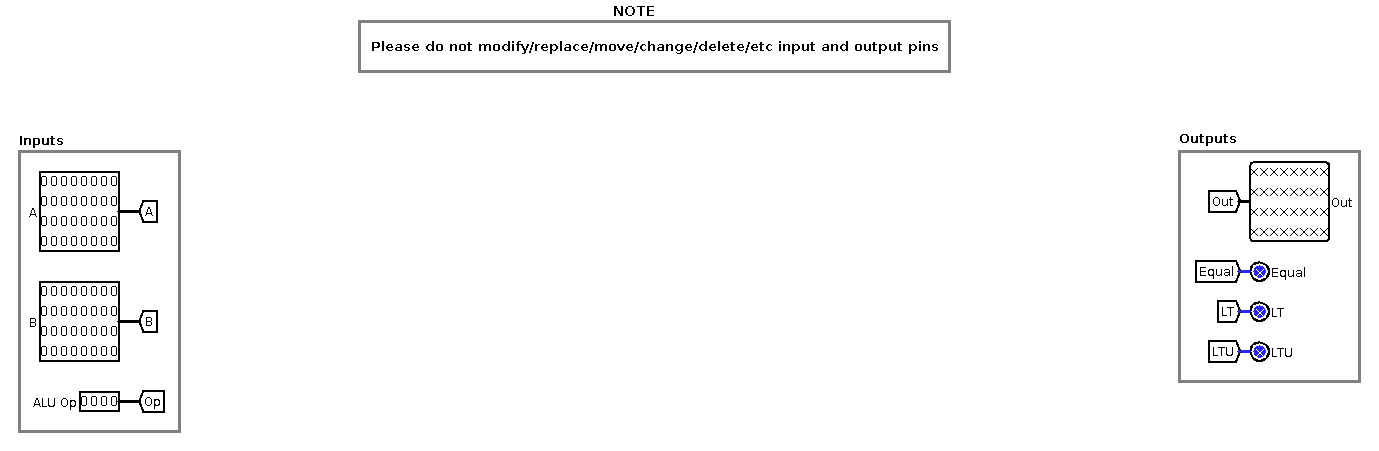
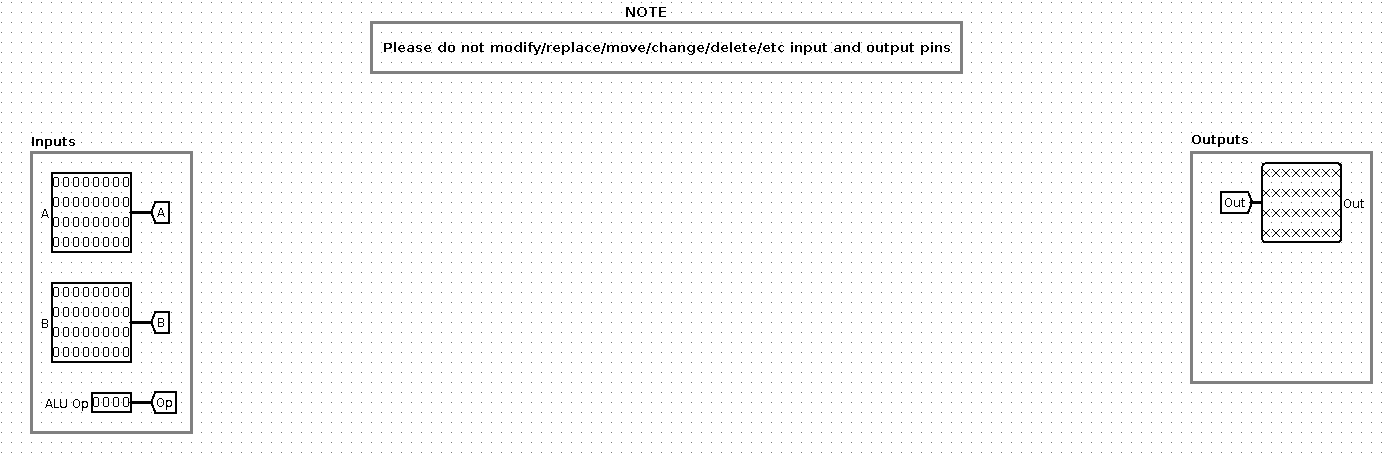
ultimo lab 2024

Changed region(s): [[0.0, 0.2794, 0.1559, 0.9623], [0.8419, 0.2794, 0.9978, 0.8692], [0.2495, 0.0, 0.7172, 0.1863]]

diff --git a/es/docs/projs/proj02.md b/es/docs/projs/proj02.md
@@ -11,22 +11,22 @@ A continuación, algunos detalles importantes que debemos leer antes de iniciar.
 
   * Pueden utilizar cualquier bloque ya existente en Logisim para el proyecto.
   * Guarden constantemente. Realicen commits y hagan push al menos una vez por cada día que trabajen.
-  * Logisim es un excelente simulador pero ocasionalmente tiene errores, entonces hagamos caso a la indicación anterior. Guarden constantemente...
+  * Logisim es un excelente simulador pero ocasionalmente tiene errores, entonces hagamos caso a la indicación anterior: Guarden constantemente.
   * Trabajemos de la misma forma que en un proyecto de software: Construyamos el proyecto pieza por pieza y realicemos pruebas antes de unir un bloque con otros. Podemos construir todos los subcircuitos adicionales que necesitemos, siempre y cuando sigamos las reglas específicas que cada parte impone (más de esto a continuación).
   * Se incluyen algunos tests. Sólo se debe correr el script ./check (esto seguramente tendrán que hacerlo en Linux, se requiere Python 3.X instalado).
   * ¡Necesitaremos más tests! Cada equipo debería hacer sus propios tests adicionales. En la sección de *Testing* hay algunas indicaciones de cómo hacer pruebas adicionales.
 
 Finalmente, las dos indicaciones más importantes:
 
-  * Se les darán algunos armazones (harnesses) a los cuales sus circuitos se conectarán. ASEGURENSE QUE SÍ SE ADAPTAN DE FORMA CORRECTA, TODOS LOS TESTS FALLARÁN SI NO LO HACEN.
-  * En el camino nos hemos encontrado con algunos problemas de git merge si ambos miembros del equipo estaban trabajando en el mismo archivo; a veces git los resolvía automáticamente y a veces no. En Logisim es garantizado que git NO RESOLVERÁ ESTO DE FORMA CORRECTA, entonces si trabajamos en equipo NO DEBEMOS MODIFICAR EL MISMO ARCHIVO AL MISMO TIEMPO
+  * No modifique (es decir no mueva, no renombre, no elimine) ninguna de las entradas y salidas que se le dan en los circuitos base. Si lo hace nuestro autograder no podrá conectarse con su circuito y tendrá cero de nota.
+  * En el camino nos hemos encontrado con algunos problemas de git merge si ambos miembros del equipo estaban trabajando en el mismo archivo. En el proyecto 1 a veces git los resolvía automáticamente y a veces no. En Logisim es garantizado que git NO RESOLVERÁ ESTO DE FORMA CORRECTA, entonces si trabajamos en equipo NO DEBEMOS MODIFICAR EL MISMO ARCHIVO AL MISMO TIEMPO.
 
 
 ## Preparación
 
-**Antes de comenzar, asegúrense de que hayan <span style="color: red">leído y comprendido</span> todas las instrucciones del proyecto de principio a fin**. Si tienen alguna pregunta, por favor diríjanse a **Slack** y pregunten en los canales correspondientes.
+**Antes de comenzar, asegúrense de que hayan leído y comprendido todas las instrucciones del proyecto de principio a fin**. Si tienen alguna pregunta, por favor diríjanse a **Slack** y pregunten en los canales correspondientes. Si su duda es general, es decir no necesita mostrar algo muy específico de su circuito, pregunte en los **canales públicos**.
 
-Para comenzar con el proyecto, primero tienen que tener todos los archivos base, estos se encuentran [aquí](https://classroom.github.com/a/KKOa0Ell). Tienen permitido trabajar en parejas o de forma individual, por lo que al aceptar la asignación les preguntará si desean crear un grupo nuevo o unirse a uno ya existente. Si crean un grupo nuevo, ingresen un nombre que represente lo represente  y que no haya sido tomado por otro.
+Para comenzar con el proyecto, primero tienen que tener todos los archivos base, estos se encuentran [aquí](https://classroom.github.com/a/gB6R5Wz4). Pueden trabajar en parejas o de forma individual, por lo que al aceptar la asignación les preguntará si desean crear un grupo nuevo o unirse a uno ya existente. Si crean un grupo nuevo, ingresen un nombre creativo y fácil de recordar. No se pueden repetir los nombres del proyecto 1, Github no lo permite.
 
 ![Create group](/img/projs/proj01/classroom1.png)
 
@@ -34,7 +34,7 @@ Si desean unirse a un grupo ya creado, tienen que buscar el nombre del grupo y p
 
 ![Join group](/img/projs/proj01/classroom2.png)
 
-**Tienen que tener mucho cuidado al unirse a un grupo ya existente, ya que esto no se puede cambiar después, además, lo consideraremos como <span style="color: red">PLAGIO</span> si lo realizan de manera incorrecta, ya que, al hacer esto, pueden tener acceso al repositorio del otro miembro del grupo.**
+**Tienen que tener mucho cuidado al unirse a un grupo ya existente, ya que esto no se puede cambiar después. Si se une sin permiso a un grupo que no es el suyo, lo consideraremos como PLAGIO, ya que al hacerlo obtiene acceso al repositorio del otro grupo.**
 
 Ya sea que se unan o creen un nuevo grupo, al finalizar el proceso les creará automáticamente un repositorio con una extensión que termina con su nombre de grupo. Ya habiendo hecho todo eso, pueden ejecutar los siguientes comandos abriendo una terminal (<kbd >CTRL</kbd> <kbd>+</kbd> <kbd>T</kbd>):
 
@@ -97,9 +97,9 @@ Las salidas para DEBUG/TEST están presentes porque son registros de uso frecuen
 
 **IMPORTANTE:** En la primera tabla aparecen nueve registros y en la tabla anterior aparecen siete salidas, eso es intencional. Se estarán **usando** nueve, pero solo se estará **revisando** el valor de siete de ellos.
 
-Pueden modificar regfile.circ como deseen, pero las salidas deben cumplir con el comportamiento que se indica. Deben ser cuidadosos de no modificar (mover, reemplazar, cortar, pegar, eliminar, etc) los pines de entrada o salida. Si necesitan más espacio, pueden moverlos mientras sean cuidadosos de mantener el posicionamiento relativo que estos tienen. Para verificar que nuestros cambios no "rompan" nada, podemos abrir regfile-harness.circ y revisar que no existan errores allí y que todo funcione bien.
+Pueden modificar regfile.circ como deseen, pero las salidas deben cumplir con el comportamiento que se indica. Deben ser cuidadosos de no modificar (mover, reemplazar, cortar, pegar, eliminar, etc.) los pines de entrada o salida. Si necesitan más espacio, pueden moverlos mientras sean cuidadosos de mantener el posicionamiento relativo que estos tienen. Para verificar que nuestros cambios no "rompan" nada, podemos abrir **regfile-harness.circ** y revisar que no existan errores allí (cables rojos de error o cables azules de desconectado) y que todo funcione bien.
 
-HINTS: (1) Cuidado con los muxes. Si estos tienen un enable ese debería estar activo (o mejor aún, buscamos en la ayuda de Logisim cómo quitar esa funcionalidad). (2) Si en algún momento se encuentra con algo que diga three-state o tri-estado, no lo use, desactíve esta opción. En cursos futuros le mencionarán estados de alta impedancia, pero eso no importa en CC3 y en Logisim.
+HINTS: Cuidado con los muxes. Si estos tienen un enable ese debería estar activo (o mejor aún, buscamos como eliminar el enable para evitarnos problemas).
 
 ## Parte 2: ALU
 
@@ -115,16 +115,13 @@ Este tiene tres entradas:
 | B | 32 | Datos para usar por B en la operación del ALU |
 | ALU Op | 4 | Selecciona la operación que el ALU debe de efectuar |
 
-...y cuatro salidas:
+...y una salida:
 
 | Nombre de Entrada | Ancho en Bits | Descripción |
 |:-----------------:|:-------------:|:---------------------------------------------------:|
 | Out | 32 | Resultado de la operación efectuada por el ALU |
-| Equal | 1 | 1 si A y B son iguales; 0 de lo contrario |
-| LT | 1 | 1 si A es menor que B (signed); 0 de lo contrario |
-| LTU | 1 | 1 si A es menor que B (unsigned); 0 de lo contrario |
 
-Esta es la lista de operaciones que necesitan implementar. Ustedes tienen que utilizar los componentes de logisim que ya efectúan estas operaciones, por favor no las implementen desde cero, sería muy tardado y no es el objetivo del proyecto.
+Esta es la lista de operaciones que necesitan implementar. Ustedes tienen que utilizar los componentes de Logisim que ya efectúan estas operaciones. Si las intenta implementar desde cero, sería muy tardado y no es el objetivo del proyecto.
 
 | Valor de ALU Op | Instrucción |
 |:---------------:|-----------------------------------|
@@ -143,9 +140,9 @@ Esta es la lista de operaciones que necesitan implementar. Ustedes tienen que ut
 
 Algunas cosas adicionales que tienen que tener en mente:
 
-La salidas `Equal`, `LT`, `LTU` siempre tienen que sacar el valor correcto de comparación sin importar el valor de `ALU Op`. Nuevamente, tienen que tener cuidado con los inputs y output pins, no los modifiquen por ningún motivo.
+Su ALU debería de encajar con el harness **alu-harness.circ**. Sigan las mismas instrucciones que en el register file. En particular, ustedes deberían de asegurar que su ALU encaja correctamente en el harness.
 
-Su ALU debería de encajar con el harness **alu_harness.circ**. Sigan las mismas instrucciones que en el register file. En particular, ustedes deberían de asegurar que su ALU es cargado correctamente por el harness antes de que hagan submit.
+Quedan espacios disponibles por si necesitan agregar alguna operación más adelante.
 
 ## Parte 3: CPU
 
@@ -153,14 +150,14 @@ Se les provee un esqueleto del procesador en **cpu.circ**. Su procesador tendrá
 
 ![CPU](/img/projs/proj02/cpu.png)
 
-Su procesador obtendrá su programa del armazón (harness) **riscv.circ**. Su procesador tendrá un output llamado FETCH_ADDRESS que indica cuál instrucción queremos, esta dirección será entregada al harness y este nos dará una instrucción. La instrucción será recibida por el procesador y será ejecutada. Revisen riscv.circ para ver exactamente qué sucede.
+Su procesador obtendrá un programa desde el harness **riscv.circ**. Su procesador tendrá un output llamado FETCH_ADDRESS que indica cuál instrucción queremos, esta dirección será entregada al harness y este nos dará una instrucción. La instrucción será recibida por el procesador y será ejecutada. Revisen **riscv.circ** para ver exactamente qué sucede.
 
 El procesador tiene dos inputs que vienen del harness:
 
 Input Name | Bit Width | Descripción
 --- | --- | ---
 INSTRUCTION | 32 | Aquí se recibe la instrucción que se obtuvo en la dirección identificada por FETCH_ADDRESS.
-CLOCK | 1 | Input del reloj. Puede ser necesario estar enviando esta señal a varios subcircuitos. Esta señal no debe pasar por ninguna compuerta (NOT, AND, etc).
+CLOCK | 1 | Input del reloj. Puede ser necesario estar enviando esta señal a varios subcircuitos.
 
 El procesador debe tener los siguientes outputs, que entregará al harness:
 
@@ -193,9 +190,9 @@ READ DATA | output | 32 | Datos leídos en la dirección especificada.
 
 ### Control
 
-Las señales de control tienen un papel muy importante en el proyecto. Se sugiere volver a leer el capítulo 4 del libro para darse cuenta dónde podemos necesitar un MUX y, por lo tanto, alguna señal de control.
+Las señales de control tienen un papel muy importante en el proyecto. Revise de nuevo los diagramas de datapath vistos en clase y la tabla resumen de control que llenamos para tener frescas en su mente las señales.
 
-Existen varias formas de implementar las señales de control. Por ejemplo, pueden construir una palabra de control y guardarla en una memoria ROM (micro-código) o pueden construir un circuito que elija qué acción tomar basándose en algunos bits del opcode, func3 y func7.
+Existen varias formas de implementar las señales de control. Por ejemplo, pueden construir una palabra de control y guardarla en una memoria ROM (microcódigo) o pueden construir un circuito que elija qué acción tomar basándose en algunos bits del opcode, func3 y func7.
 
 **Es obligatorio que sus componentes estén unidos y las señales de control necesarias estén implementadas.** Si en la calificación del proyecto sólo tiene componentes sueltos (como el ALU y Reg File de la primera fase) y estos no se comunican entre sí, su nota será cero.
 
@@ -242,13 +239,13 @@ Las instrucciones a implementar son las siguientes:
 
 ## Testing
 
-Para la parte 1 y 2, con el check local es suficiente y si lo pasan significa que esas partes ya las tienen funcionando al 100%. Para la parte 2, el check local también es bastante completo, pero ustedes pueden hacer más pruebas si lo desean. Como no podemos probar cada componente que ustedes vayan implementando, la mejor opción es escribir programas de RISC-V pequeños e ir revisando su datapath de diferentes maneras.
+Para el ALU y Resister File es suficiente usar el **./check** para probar. Para el procesador completo el check también es bastante útil, pero necesitarán pruebas adicionales. Como no podemos probar cada componente que ustedes vayan implementando, la mejor opción es escribir programas de RISC-V pequeños e ir revisando su datapath de diferentes maneras.
 
 Una vez que hayan escrito su programa de RISC-V, lo van a tener que cargar en la ROM que está en **riscv.circ** y empezar la ejecución. Para eso, primero, abran riscv.circ y localicen la memoria ROM.
 
 ![ROM](/img/projs/proj02/rom.png)
 
-Hagan click a la memoria y, después, en la barra de herramientas de la izquierda, hagan click en "(click here to edit)", esto va a abrir un diálogo en donde ustedes pueden cargar su archivo con el código de RISC-V y este ensamblará y generará código de máquina por ustedes que va a ser la salida de la memoria ROM.
+Hagan click a la memoria y, después, en la barra de herramientas de la izquierda, hagan click en **(click here to edit)**, esto va a abrir un diálogo en donde ustedes pueden cargar su archivo con el código de RISC-V y este ensamblará y generará código de máquina por ustedes que va a ser la salida de la memoria ROM.
 
 ![Testing](/img/projs/proj02/test.png)
 
@@ -257,15 +254,13 @@ Hagan click a la memoria y, después, en la barra de herramientas de la izquierd
 
 Si Logisim les da algún problema extraño, REINICIEN LOGISIM Y VUELVAN A CARGAR SU CIRCUITO. No pierdan tiempo buscando errores si no han hecho esto. Si reiniciar no ha resuelto el problema, allí sí ya les corresponde revisar su circuito.
 
-Logisim tiene un "Reference", en la pestaña "Help", y les dice las especificaciones de cada componente.
-
-Do NOT gate the clock! (esto no tiene una traducción directa). Los clocks tienen que llegar directo a los circuitos, ni en CC3 ni en un curso donde usen hardware deberían colocar compuertas antes que la señal de reloj entre al componente.
+Logisim tiene un "Reference" en la pestaña "Help", y les dice las especificaciones de cada componente.
 
 Si están usando varias ventanas de Logisim tengan mucho cuidado cuando hagan copy-paste de una ventana a otra. Asegúrense que sí se copió el circuito completo que querían y que funcione bien después de pegarlo.
 
-Cuando importen otro archivo (Project -> Load Library -> Logisim Library...), este aparecerá como un folder en el panel de la izquierda. Los archivos esqueleto deberían de tener importado todo lo necesario.
+Si su máquina tiene poca RAM, se recomienda que no tenga muchas ventanas de Logisim abiertas para evitar errores.
 
-Cambiar los atributos antes de colocar un componente cambia el default. Si quieren colocar varios pines de 32 bits (por ejemplo), habría que cambiarlo antes de colocar el primero. Si sólo quieren cambiar algún valor para un componente, primero lo colocan y, luego, lo cambian.
+Pueden cambiar los atributos antes de colocar un componente para cambiar el default. Si quieren colocar varios pines de 32 bits (por ejemplo), habría que cambiarlo antes de colocar el primero. Si sólo quieren cambiar algún valor para un componente, primero lo colocan y, luego, lo cambian.
 
 Cuando cambian los inputs y outputs de un subcircuito que ya colocaron en main, Logisim automáticamente añade o remueve puertos según los cambios que hagan. Esto, muchas veces, afecta el tamaño o posición del subcircuito. Si ya habían cables conectados, Logisim intentará moverlos, pero no siempre lo hace bien. Se recomienda que si van a cambiar los inputs y outputs de un circuito, primero desconecten todos los cables que este pueda tener en main o lo eliminen del main y lo vuelvan a colocar después de cambiarlo. **Recuerden que sólo pueden hacer esto para los subcircuitos que USTEDES agregan**.
 
@@ -273,8 +268,9 @@ Los cables rojos significan que algo está mal conectado. Algunos casos pueden n
 
 ![Red Wires](/img/projs/proj02/error_wire.png)
 
-
 Logisim tiene algunas herramientas de análisis combinacional (nos puede construir mapas de Karnaugh o circuitos completos con sólo darle una tabla :D). Esta herramienta les puede ser útil en algún momento de sus vidas, pero la recomendación es no usarla en CC3. Recuerden que durante los exámenes tendrán que hacer mapas o circuitos a mano, sin acceso a su computadora.
+
+Finalmente, **guarde seguido** y **haga push seguido**. Para bien o para mal Logisim está hecho en Java y tiene algunos errores. Logisim incluso puede llegar a borrar su circuito completo si su computadora llega a trabarse, entonces es importante tener una copia de seguridad siempre en Github.
 
 
 ## Calificación
@@ -308,4 +304,4 @@ Exercise            Grade  Message
 => Score: 100/100
 ```
 
-**IMPORTANTE:** Para tener derecho a nota debe presentar un procesador conectado y funcionando. Es posible obtener los puntos de ALU y de Register File con componentes sueltos y desconectados, sin emgargo si usted presenta esto se le pondrá CERO de nota. En otras palabras, todas las notas de 20 o menos se convierten en CERO.
+**IMPORTANTE:** Para tener derecho a nota debe presentar un procesador conectado y funcionando, no puede presentar solamente componentes sueltos. Si solo tiene los 20 puntos de ALU y Register File, esto se convierte en cero.

diff --git a/es/docs/projs/proj01.md b/es/docs/projs/proj01.md
@@ -52,7 +52,7 @@ Se recomienda que tenga impresa su Green Card para consultar fácilmente los opc
 
 **Antes de comenzar asegúrense de que hayan <span style="color: red">leído y comprendido</span> todas las instrucciones del proyecto de principio a fin**. Si tienen alguna pregunta pueden consultar la sección de preguntas frecuentes para ver si ya ha sido resuelta, de lo contrario por favor diríjanse a **Slack** y pregunten en los canales correspondientes.
 
-Para comenzar con el proyecto, primero tienen que tener todos los archivos base, estos se encuentran [aquí](https://classroom.github.com/a/58o2-8Lc). Pueden trabajar en parejas o de forma individual, por lo que al aceptar la asignación les preguntará si desean crear un grupo nuevo o unirse a uno ya existente. Si crean un grupo nuevo, ingresen un nombre que represente al grupo y que no esté ya en los grupos existentes. Use un nombre bonito y creativo! (Alguna referencia a su equipo deportivo favorito, alguna canción que les guste, su carta favorita de Magic, algún anime, lo que quiera siempre y cuando no sea ofensivo) No use nombres aburridos como "Proyecto 1", "CC3 - Seccion X", etc. POR FAVOR.
+Para comenzar con el proyecto, primero tienen que tener todos los archivos base, estos se encuentran [aquí](https://classroom.github.com/a/4LaYXPQz). Pueden trabajar en parejas o de forma individual, por lo que al aceptar la asignación les preguntará si desean crear un grupo nuevo o unirse a uno ya existente. Si crean un grupo nuevo, ingresen un nombre que represente al grupo y que no esté ya en los grupos existentes. Use un nombre bonito y creativo! (Alguna referencia a su equipo deportivo favorito, alguna canción que les guste, su carta favorita de Magic, algún anime, lo que quiera siempre y cuando no sea ofensivo) No use nombres aburridos como "Proyecto 1", "CC3 - Seccion X", etc. POR FAVOR.
 
 ![Create group](/img/projs/proj01/classroom1.png)
 

diff --git a/es/docs/labs/lab00.md b/es/docs/labs/lab00.md
@@ -82,7 +82,7 @@ Haremos un **push** de prueba antes de continuar.
 Asegurese de estar en la carpeta de su laboratorio (recuerde que en Linux usa el comando **cd** para moverse entre carpetas). Una vez se encuentre allí, cree un archivo que diga "Hola Mundo" ejecutando el siguiente comando.
 
 ```shell
-echo 'echo "Hola Mundo"' > hello.txt
+echo "Hola Mundo" > hello.txt
 ```
 
 Ahora comprobamos el estado de nuestro repositorio.
@@ -140,7 +140,7 @@ Vamos a utilizar números de 4 bits y usarlos para "dibujar". Si apilamos cinco 
 4. ¿Qué letra se dibuja con el siguiente numero en hexadecimal: 0xF8F88?
 5. ¿Cuál es el numero en hexadecimal para dibujar la letra b (minúscula)?
 
-En los archivos del laboratorio van a encontrar un archivo de texto `ex3.txt` con lo siguiente:
+En los archivos del laboratorio van a encontrar un archivo de texto `ex1.txt` con lo siguiente:
 
 ```
 1:
@@ -171,7 +171,7 @@ git push origin master
 ## Ejercicio 2: 1000 billetes de $1
 
 Imaginen que tienen mil billetes de `$1` y 10 sobres. Para este ejercicio tienen que encontrar una manera de poner una cantidad determinada de billetes de `$1` en cada uno de los sobres de tal forma que, sin importar la cantidad de dinero que se les pida (entre `$1` y `$1000`), simplemente entreguen una combinación de los sobres y que siempre estén seguros de que están dando la cantidad correcta.
-En los archivos del laboratorio hay un archivo de texto llamado `ex4.txt` en donde encontrarán lo siguiente:
+En los archivos del laboratorio hay un archivo de texto llamado `ex2.txt` en donde encontrarán lo siguiente:
 
 ```text
 a,b,c,d,e,f,g,h,i,j

diff --git a/es/docs/labs/lab07.md b/es/docs/labs/lab07.md
@@ -8,7 +8,7 @@ En este laboratorio ustedes van a aprender sobre otros componentes esenciales de
 
 Para este laboratorio, nuevamente, es necesario que tengan la aplicación de [Logisim](http://www.cburch.com/logisim/index.html). Adicionalmente pueden utilizar la [documentación](http://www.cburch.com/logisim/docs.html) de Logisim para refrescar el conocimiento que adquirieron en el laboratorio pasado o leer el lab también [aquí](https://cc-3.github.io/labs/lab05/).
 
-También tienen que tener todos los archivos base, estos se encuentran [aquí](https://classroom.github.com/a/WBm43CMR). Recuerden que deben aceptar la asignación de **GitHub Classroom** y se les creará automáticamente un repositorio con una extensión que termina con su usuario de GitHub. Cuando ya se haya creado el repositorio, pueden ejecutar los siguientes comandos abriendo una terminal (<kbd>CTRL</kbd><kbd>+</kbd><kbd>T</kbd>):
+También tienen que tener todos los archivos base, estos se encuentran [aquí](https://classroom.github.com/a/eOTjIzyc). Recuerden que deben aceptar la asignación de **GitHub Classroom** y se les creará automáticamente un repositorio con una extensión que termina con su usuario de GitHub. Cuando ya se haya creado el repositorio, pueden ejecutar los siguientes comandos abriendo una terminal (<kbd>CTRL</kbd><kbd>+</kbd><kbd>T</kbd>):
 
 ```shell
 git clone <link del repositorio>

diff --git a/es/docs/labs/lab05.md b/es/docs/labs/lab05.md
@@ -14,7 +14,7 @@
 
 ## Preparación
 
-Para comenzar con el laboratorio primero tienen que tener todos los archivos base, estos se encuentran [aquí](https://classroom.github.com/a/5AbGVaj3). Recuerden que deben
+Para comenzar con el laboratorio primero tienen que tener todos los archivos base, estos se encuentran [aquí](https://classroom.github.com/a/KUq9Ey58). Recuerden que deben
 aceptar la asignación de **Github Classroom** y se les creará automáticamente un repositorio con una extensión que termina con su usuario de GitHub.
 Cuando ya se haya creado el repositorio, pueden ejecutar los siguientes comandos abriendo una terminal (<kbd>CTRL</kbd><kbd>+</kbd><kbd>T</kbd>):
 
@@ -66,7 +66,7 @@ Al traducir, tome en cuenta lo siguiente:
 
 * Al traducir un condicional, lo más cómodo es usar lógica negada, pero existen también otras opciones si no le gustó esa.
 
-* Cuando traduciomos una función tenemos 6 pasos.
+* Cuando traducimos una función tenemos 6 pasos.
     * Paso 1 (caller): preparar los argumentos en un lugar conocido
     * Paso 2 (caller pasa a callee): saltamos usando jal
     * Paso 3 (callee): prólogo, proteja los registros que considere necesarios

diff --git a/es/docs/labs/lab04.md b/es/docs/labs/lab04.md
@@ -14,10 +14,10 @@
 
 ## Preparación
 
-Para comenzar con el laboratorio primero tienen que tener todos los archivos base, estos se encuentran [aquí](https://classroom.github.com/a/rKhFYoFr). Recuerden que deben aceptar la asignación de **Github Classroom** y se les creará automáticamente un repositorio con una extensión que termina con su usuario de GitHub. Cuando ya se haya creado el repositorio, pueden ejecutar los siguientes comandos abriendo una terminal (<kbd>CTRL</kbd> <kbd>+</kbd> <kbd>T</kbd> ):
+Para comenzar con el laboratorio primero tienen que tener todos los archivos base, estos se encuentran [aquí](https://classroom.github.com/a/Fq4GlZkV). Recuerden que deben aceptar la asignación de **Github Classroom** y se les creará automáticamente un repositorio con una extensión que termina con su usuario de GitHub. Cuando ya se haya creado el repositorio, pueden ejecutar los siguientes comandos abriendo una terminal (<kbd>CTRL</kbd> <kbd>+</kbd> <kbd>T</kbd> ):
 
 ```shell
-git clone https://github.com/cc-3/lab04-2023-SU-USUARIO-DE-GITHUB
+git clone https://github.com/cc-3/lab04-2024-SU-USUARIO-DE-GITHUB
 ```
 
 ## Introducción a ensamblador RISC-V

diff --git a/es/docs/labs/lab06.md b/es/docs/labs/lab06.md
@@ -8,7 +8,7 @@
 
 Para este laboratorio, es necesaria la aplicación Logisim. La cual se puede descargar en este [link](http://www.cburch.com/logisim/index.html).
 
-También tienen que tener todos los archivos base, estos se encuentran [aquí](https://classroom.github.com/a/jeBySPd8">aquí). Recuerden que deben aceptar la asignación de **GitHub Classroom** y se les creará automáticamente un repositorio con una extensión que termina con su usuario de GitHub. Cuando ya se haya creado el repositorio, pueden ejecutar los siguientes comandos abriendo una terminal (<kbd>CTRL</kbd><kbd>+</kbd><kbd>T</kbd>):
+También tienen que tener todos los archivos base, estos se encuentran [aquí](https://classroom.github.com/a/mm5PDbKJ). Recuerden que deben aceptar la asignación de **GitHub Classroom** y se les creará automáticamente un repositorio con una extensión que termina con su usuario de GitHub. Cuando ya se haya creado el repositorio, pueden ejecutar los siguientes comandos abriendo una terminal (<kbd>CTRL</kbd><kbd>+</kbd><kbd>T</kbd>):
 
 ```shell
 git clone <link del repositorio>

diff --git a/es/docs/labs/lab08.md b/es/docs/labs/lab08.md
@@ -9,7 +9,7 @@
 
 ## Preparación
 
-Tienen que tener todos los archivos base, estos se encuentran [aquí](https://classroom.github.com/a/XxCbsUIU). Recuerde subir su código a Github y el link de su repositorio al GES.
+Tienen que tener todos los archivos base, estos se encuentran [aquí](https://classroom.github.com/a/t5F4g6gx). Recuerde subir su código a Github y el link de su repositorio al GES.
 
 ## Ejercicio 1: Familiarizándose con las funciones SIMD.
 

diff --git a/es/docs/labs/lab02.md b/es/docs/labs/lab02.md
@@ -141,11 +141,11 @@ No responda al azar. Lea la documentación y/o pruebe los comandos para saber qu
     
   **8.** ¿Cómo se imprime una lista de **todas las variables y su valor** en la función actual?
     
-  a. info locals
-  b. display locals
-  c. info all
-  d. display all 
-
+  a. info locals   
+  b. display locals   
+  c. info all   
+  d. display all   
+  
   **9.** ¿Cómo salimos de cgdb?
     
   a. end    
